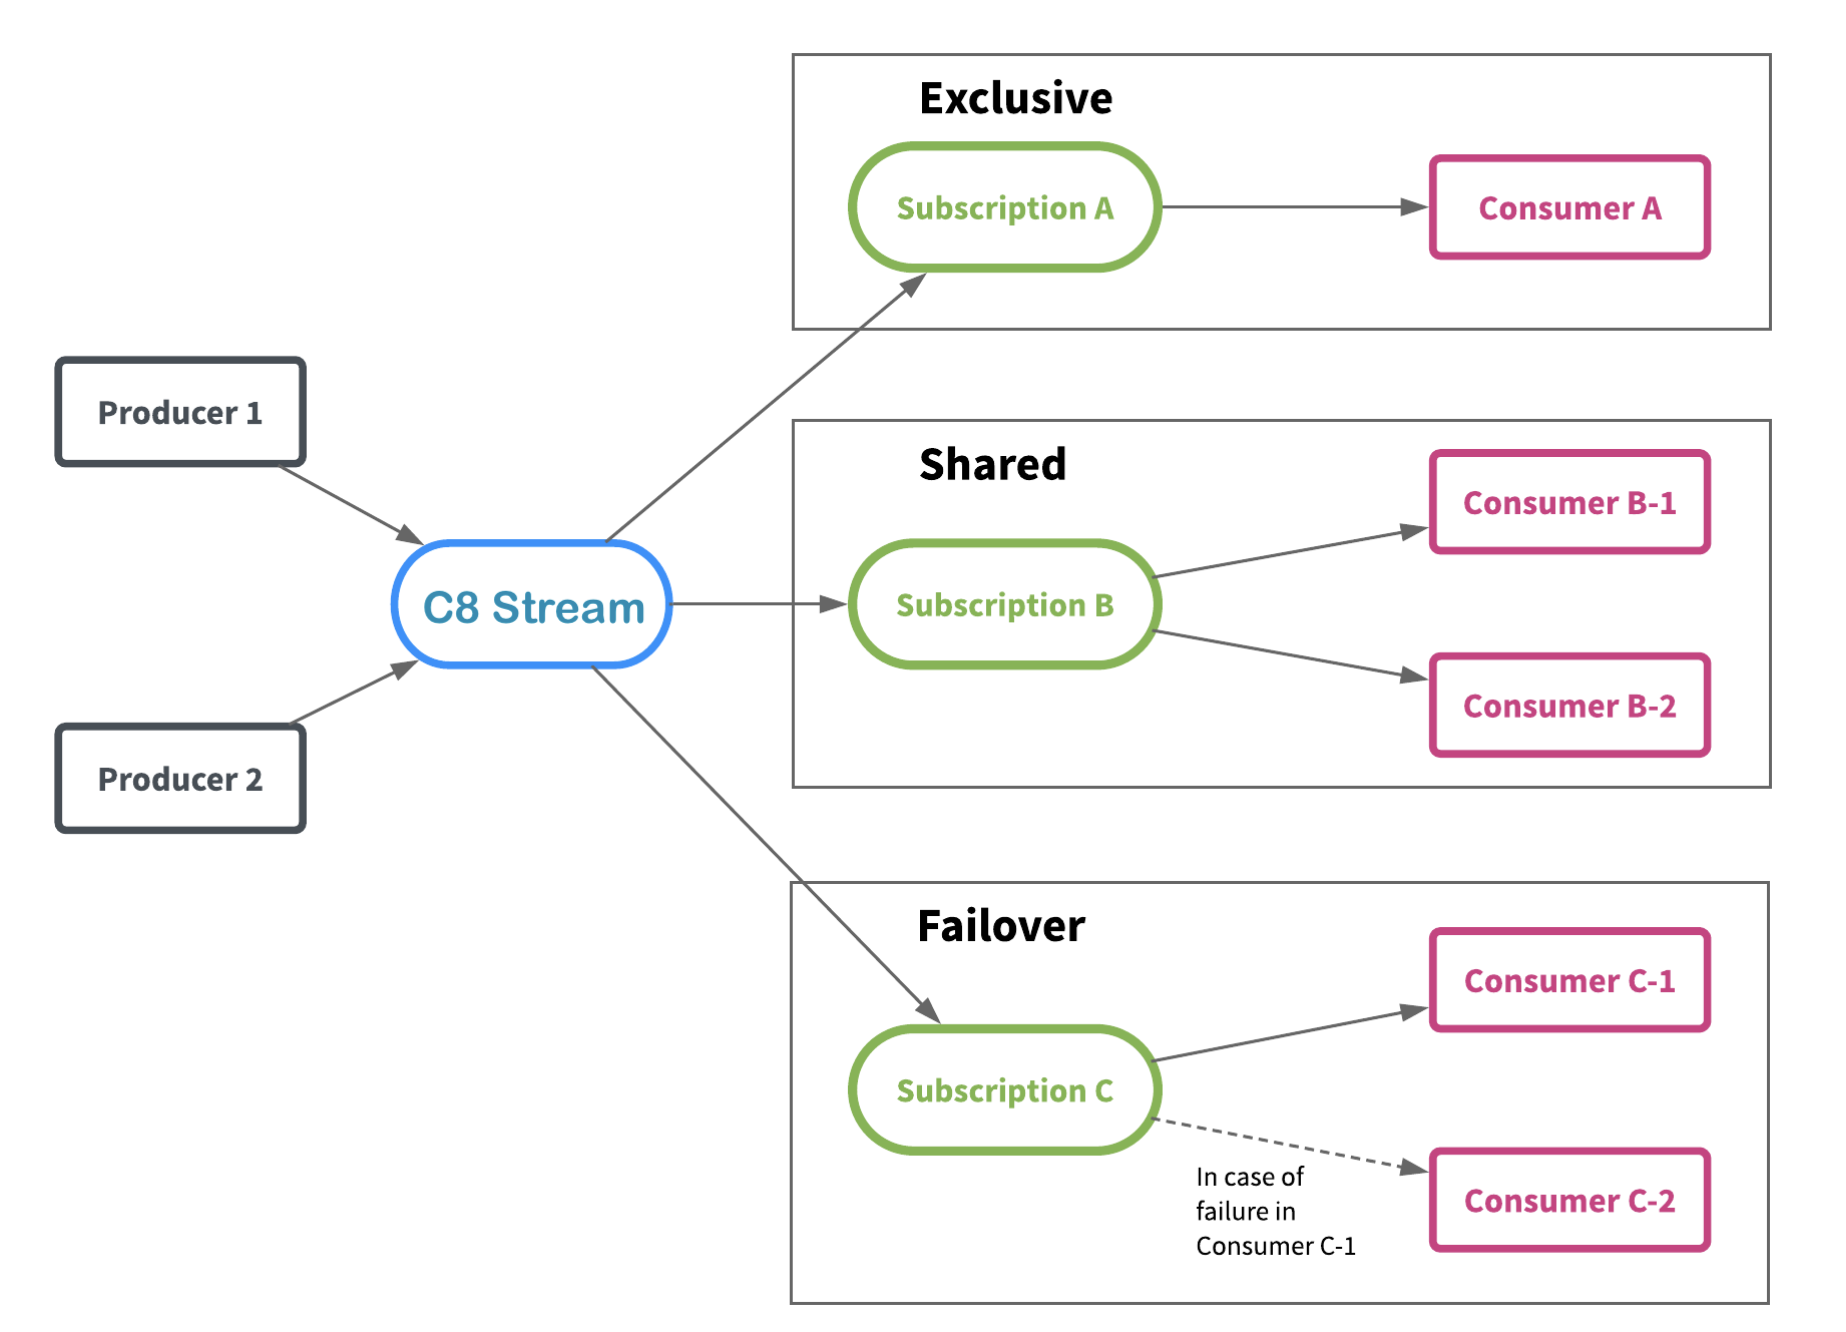
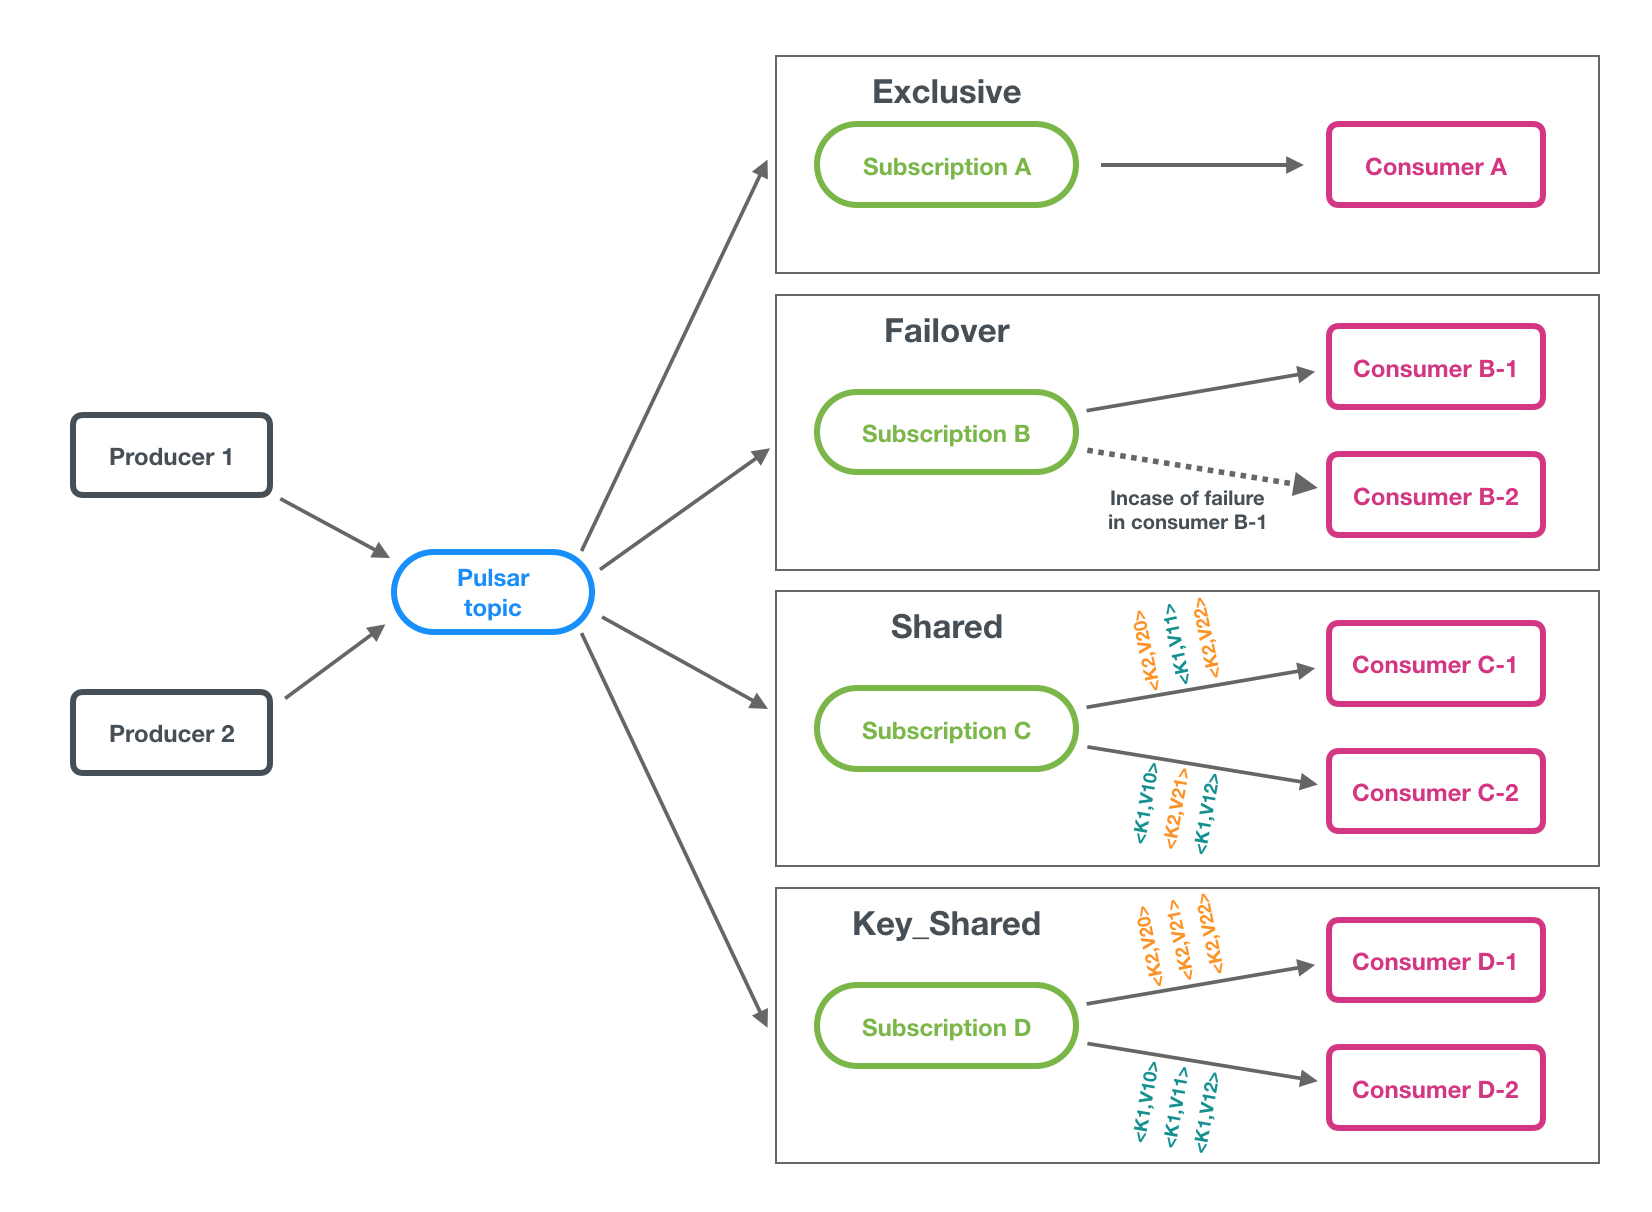
[DOC-432] Document key_shared subscription type

diff --git a/docs/streams/subscriptions.md b/docs/streams/subscriptions.md
@@ -42,6 +42,36 @@ In the diagram above, **Consumer-C-1** is the master consumer while **Consumer-C
 
 ![stream-failover-subscriptions](/img/stream-failover-subscriptions.png)
 
+### Key_Shared
+
+In Key_Shared type, multiple consumers can attach to the same subscription. Messages are delivered in a distribution across consumers and message with same key or same ordering key are delivered to only one consumer. No matter how many times the message is re-delivered, it is delivered to the same consumer. When a consumer connected or disconnected will cause served consumer change for some key of message.
+
+Note that when the consumers are using the Key_Shared subscription type, you need to disable batching or use key-based batching for the producers. There are two reasons why the key-based batching is necessary for Key_Shared subscription type:
+
+-The broker dispatches messages according to the keys of the messages, but the default batching approach might fail to pack the messages with the same key to the same batch.
+-Since it is the consumers instead of the broker who dispatch the messages from the batches, the key of the first message in one batch is considered as the key of all messages in this batch, thereby leading to context errors.
+
+The key-based batching aims at resolving the above-mentioned issues. This batching method ensures that the producers pack the messages with the same key to the same batch. The messages without a key are packed into one batch and this batch has no key. When the broker dispatches messages from this batch, it uses NON_KEY as the key. In addition, each consumer is associated with only one key and should receive only one message batch for the connected key. By default, you can limit batching by configuring the number of messages that producers are allowed to send.
+
+Below is example of enabling the key-based batching under the Key_Shared subscription type, with client being the Pulsar client that you created.
+
+
+```java
+Producer<byte[]> producer = client.newProducer()
+        .topic("my-topic")
+        .batcherBuilder(BatcherBuilder.KEY_BASED)
+        .create();
+```
+
+#### Limitations of Key_Shared type
+
+When you use Key_Shared type, be aware that:
+
+-You need to specify a key or orderingKey for messages.
+-You cannot use cumulative acknowledgment with Key_Shared type.
+
+![stream-failover-subscriptions](/img/stream-key-shared-subscriptions.png)
+
 ## Multi-stream Subscriptions
 
 When a consumer subscribes to a GDN stream, by default it subscribes to one specific stream, such as `persistent://tenant1/fabric1/my-stream`. GDN stream consumers can simultaneously subscribe to multiple streams. You can define a list of streams in two ways:
